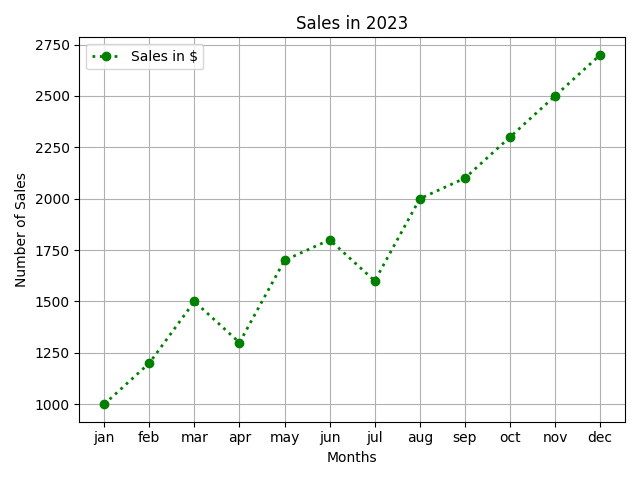
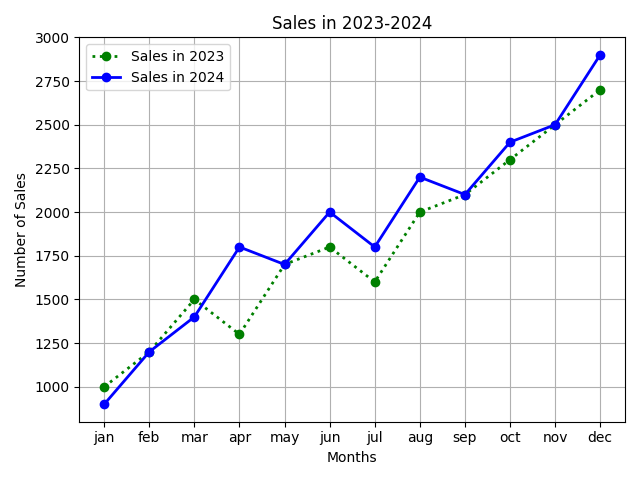
multiple line chart

diff --git a/Matplotlib/Sales_Line_Chart.py b/Matplotlib/Sales_Line_Chart.py
@@ -2,12 +2,15 @@ import matplotlib.pyplot as plt
 
 months = ['jan', 'feb', 'mar', 'apr','may', 'jun', 'jul', 'aug', 'sep', 'oct', 'nov', 'dec']
 
-sales = [1000, 1200, 1500, 1300, 1700, 1800, 1600, 2000, 2100, 2300, 2500, 2700]
+salesOf23 = [1000, 1200, 1500, 1300, 1700, 1800, 1600, 2000, 2100, 2300, 2500, 2700]
+
+salesOf24 = [900, 1200, 1400, 1800, 1700, 2000, 1800, 2200, 2100, 2400, 2500, 2900]
 
 
-plt.plot(months, sales, marker='o', linestyle="dotted", color = 'green', linewidth=2, label="Sales in $")
+plt.plot(months, salesOf23, marker='o', linestyle="dotted", color = 'green', linewidth=2, label="Sales in 2023")
+plt.plot(months, salesOf24, marker='o', linestyle="solid", color = 'blue', linewidth=2, label="Sales in 2024")
 
-plt.title('Sales in 2023')
+plt.title('Sales in 2023-2024')
 plt.xlabel('Months')
 plt.ylabel('Number of Sales')
 plt.grid()

diff --git a/Matplotlib/student_mark_comparison.py b/Matplotlib/student_mark_comparison.py
@@ -1,0 +1,14 @@
+import matplotlib.pyplot as plt
+
+students = ['Alice', 'Bob', 'John', 'Charlie', 'David']
+
+marks = [85, 72, 90, 65, 78]
+
+plt.bar(students, marks, color='royalblue')
+
+plt.title("Mark Comparison Chart")
+plt.xlabel('Name of the students')
+plt.ylabel('Marks')
+plt.grid()
+
+plt.show()
